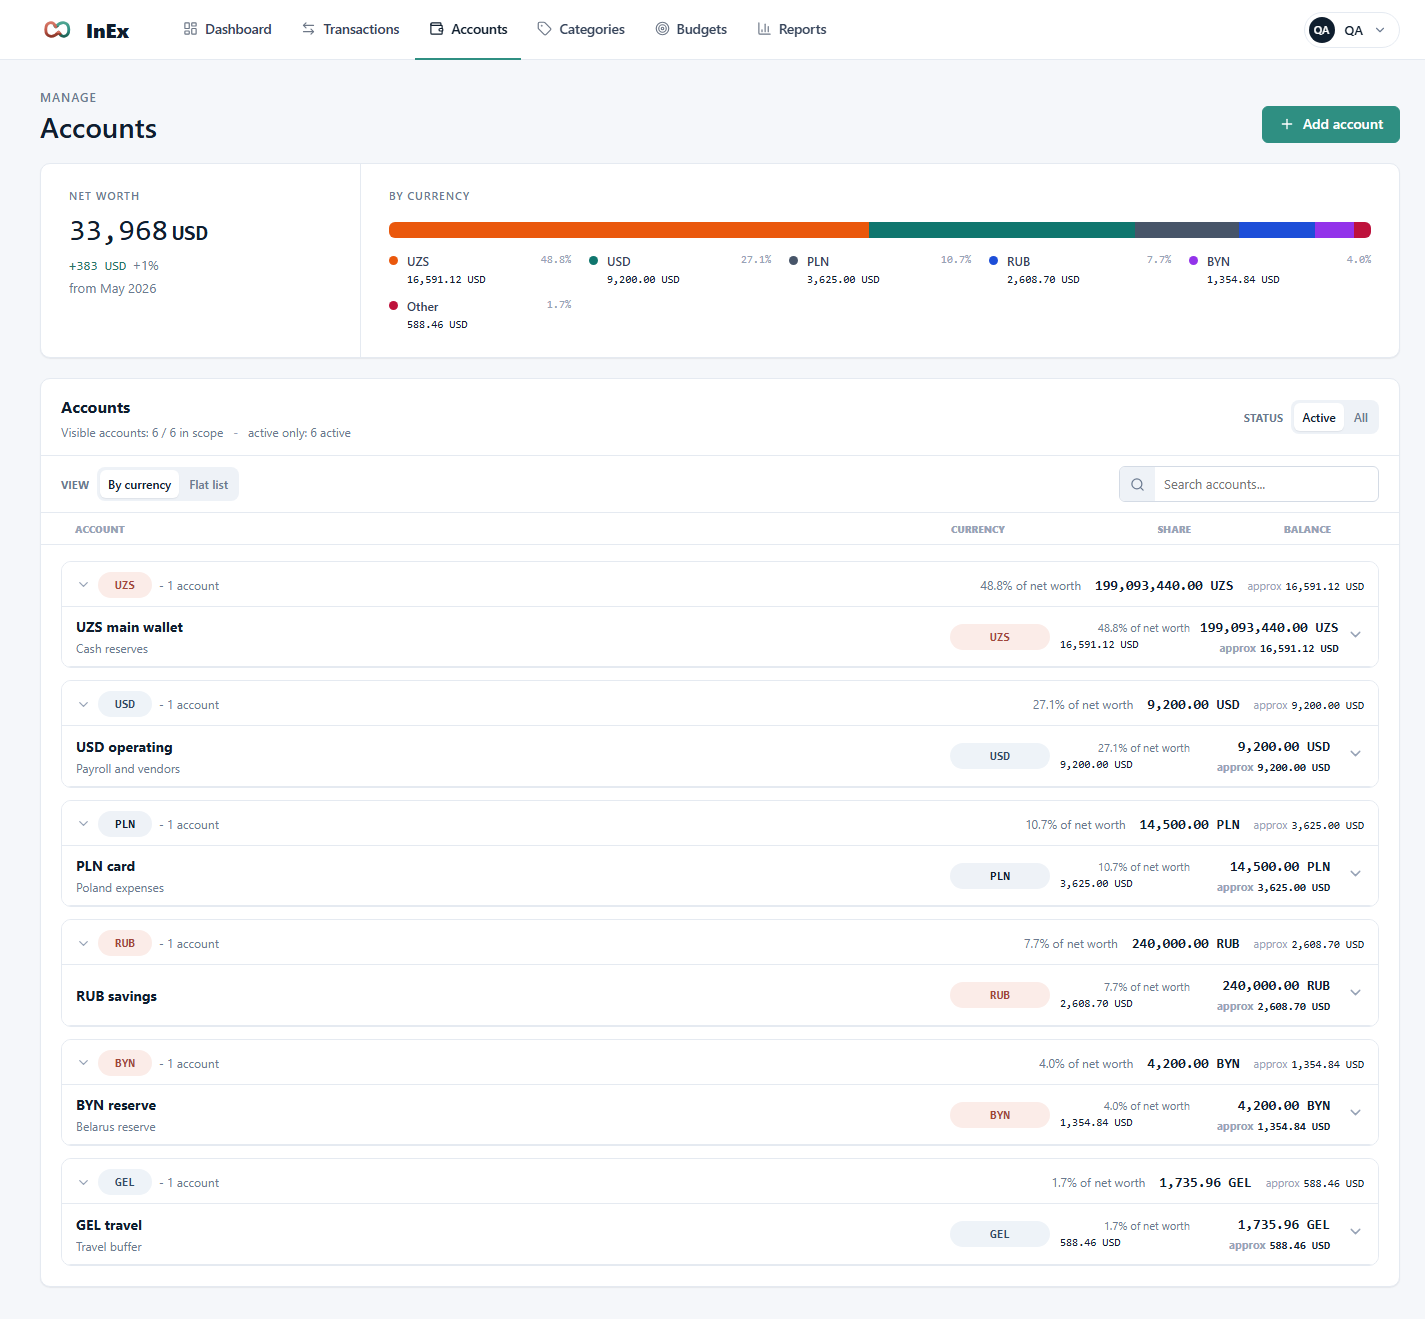
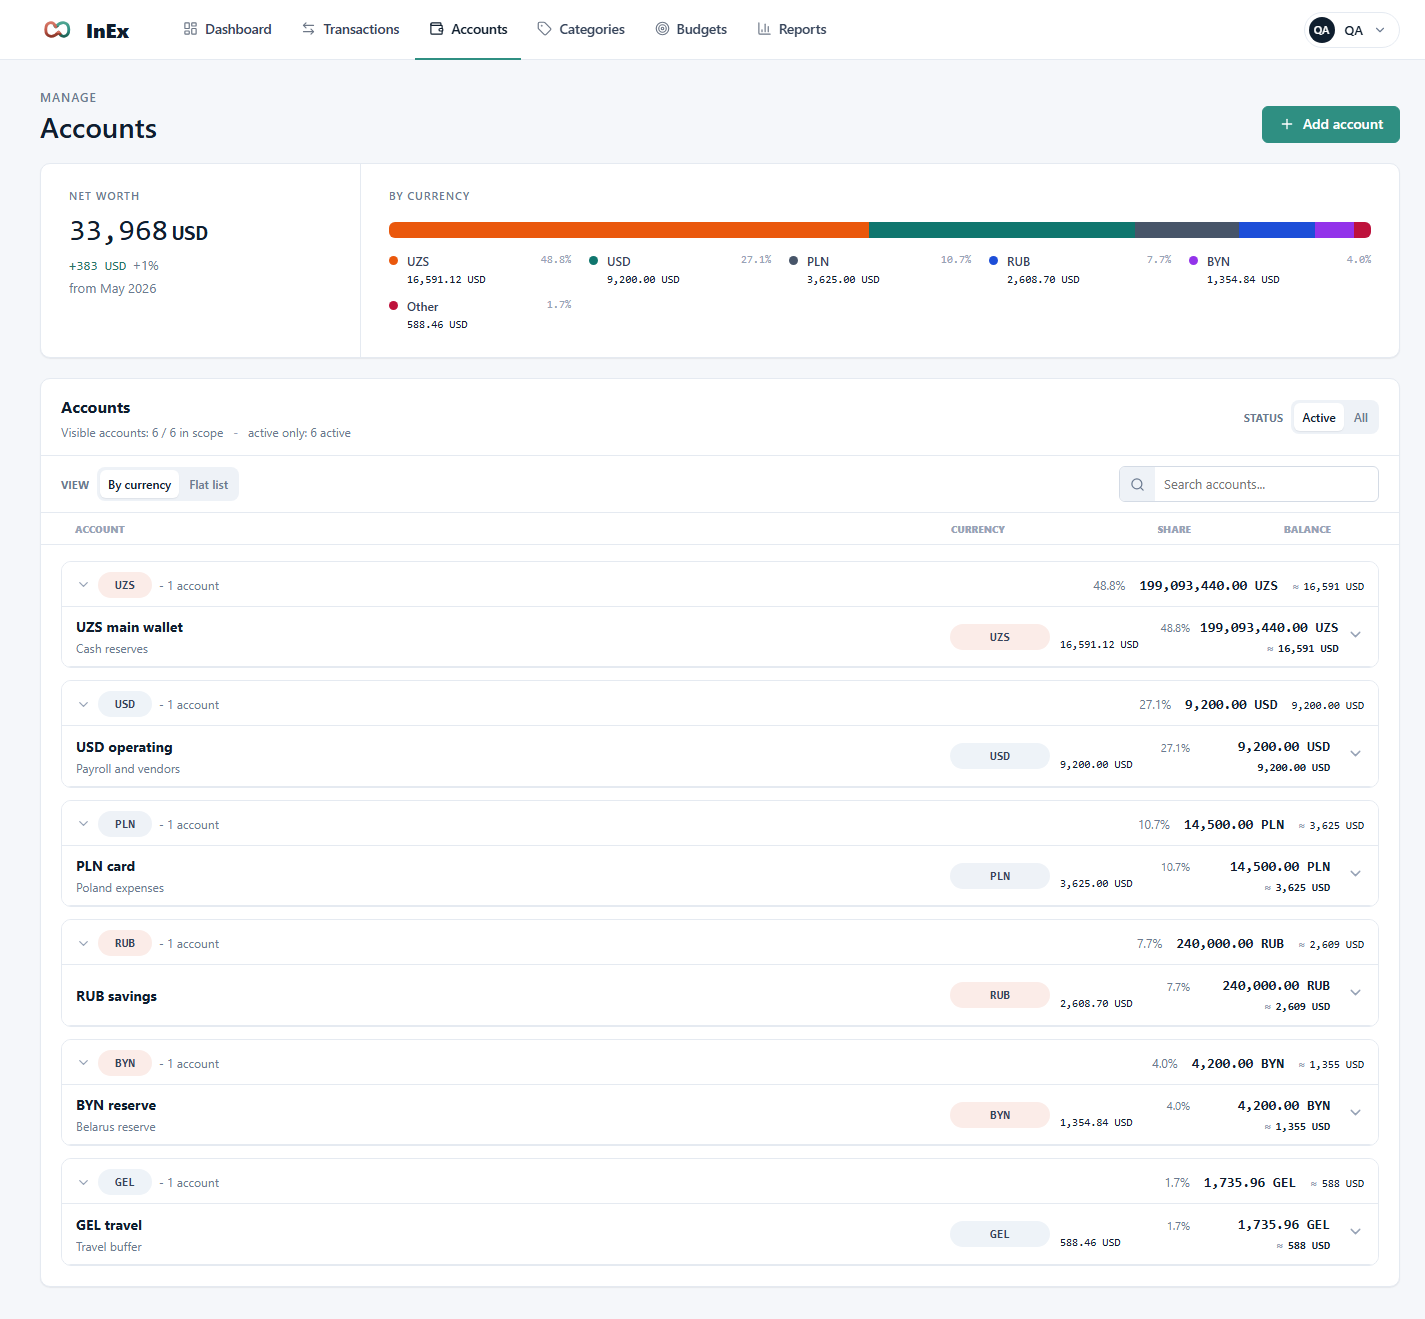
Normalize Accounts currency hierarchy

diff --git a/inex/ClientApp/src/pages/Accounts.tsx b/inex/ClientApp/src/pages/Accounts.tsx
@@ -21,6 +21,7 @@ import {
     SegmentedControl,
     Tag as InExTag,
 } from "../components/primitives";
+import type { NumProps } from "../components/primitives";
 import BasicPage from "../layouts/BasicPage";
 import { useAppSelector } from "../store/hooks";
 import apiClient from "../utils/apiClient";
@@ -295,7 +296,7 @@ const Accounts = () => {
 
     const renderBaseEquivalent = (
         value: number | null,
-        options: { approx?: boolean; className?: string } = {},
+        options: { approx?: boolean; className?: string; fractionDigits?: NumProps["fractionDigits"] } = {},
     ) => {
         if (value === null || !baseCurrency) {
             return (
@@ -314,6 +315,7 @@ const Accounts = () => {
                 )}
                 <Num
                     currency={baseCurrency}
+                    fractionDigits={options.fractionDigits}
                     kind={value < 0 ? "expense" : "neutral"}
                     value={toFixedMoney(value)}
                 />
@@ -466,8 +468,9 @@ const Accounts = () => {
                                         value={toFixedMoney(accountValue)}
                                     />
                                     {renderBaseEquivalent(account.baseValue, {
-                                        approx: true,
+                                        approx: account.currency !== baseCurrency,
                                         className: "accounts-row__balance-equivalent",
+                                        fractionDigits: account.currency !== baseCurrency ? 0 : undefined,
                                     })}
                                 </React.Fragment>
                             )}
@@ -589,8 +592,9 @@ const Accounts = () => {
                                             : t("accounts.hero.balanceUnavailable")}
                                     </span>
                                     {renderBaseEquivalent(group.baseSubtotal, {
-                                        approx: true,
+                                        approx: group.currency !== baseCurrency,
                                         className: "accounts-group__base",
+                                        fractionDigits: group.currency !== baseCurrency ? 0 : undefined,
                                     })}
                                 </span>
                             </button>

diff --git a/inex/ClientApp/src/pages/Accounts/accounts.css b/inex/ClientApp/src/pages/Accounts/accounts.css
@@ -440,13 +440,25 @@
     gap: 10px;
     grid-template-columns: minmax(220px, 1.8fr) 100px minmax(120px, 130px) minmax(120px, 130px) 24px;
     padding: 9px 14px;
+    position: relative;
     text-align: left;
     transition: background var(--dur-1) var(--ease-standard);
     width: 100%;
 }
 
-.accounts-row:hover {
+.accounts-row:hover,
+.accounts-row[aria-expanded="true"] {
     background: var(--bg-stripe);
+}
+
+.accounts-row[aria-expanded="true"]::before {
+    background: var(--income-500);
+    bottom: 0;
+    content: "";
+    left: 0;
+    position: absolute;
+    top: 0;
+    width: 3px;
 }
 
 .accounts-row.is-disabled {
@@ -575,6 +587,7 @@
 .accounts-currency-badge {
     align-items: center;
     border-radius: var(--radius-pill);
+    color: var(--fg-2);
     display: inline-flex;
     font-family: var(--font-num);
     font-size: 12px;
@@ -586,27 +599,22 @@
 
 .is-teal {
     background: var(--income-bg);
-    color: var(--income-fg);
 }
 
 .is-slate {
     background: var(--transfer-bg);
-    color: var(--transfer-fg);
 }
 
 .is-amber {
     background: var(--warn-bg);
-    color: var(--warn-fg);
 }
 
 .is-terracotta {
     background: var(--expense-bg);
-    color: var(--expense-fg);
 }
 
 .is-ink {
     background: var(--bg-muted);
-    color: var(--brand-ink);
 }
 
 @keyframes accounts-pulse {

diff --git a/inex/ClientApp/src/pages/Accounts/accounts-utils.test.ts b/inex/ClientApp/src/pages/Accounts/accounts-utils.test.ts
@@ -6,6 +6,7 @@ import {
   getAccountDisplayDescription,
   getBaseCurrency,
   getTotalBaseValue,
+  makeCurrencyDistribution,
   makeCurrencyGroups,
   sortAccountsByBaseValue,
   toFixedMoney,
@@ -151,7 +152,8 @@ describe("accounts value helpers", () => {
     const groups = makeCurrencyGroups(displayAccounts, 33968.12);
 
     expect(toFixedMoney(getTotalBaseValue(displayAccounts))).toBe(accountsVisualFixtureMeta.expectedNetWorth);
-    expect(groups.map((group) => group.currency)).toEqual(accountsVisualFixtureMeta.expectedDistributionOrder);
+    expect(makeCurrencyDistribution(groups, "Other").map((item) => item.label))
+      .toEqual(accountsVisualFixtureMeta.expectedDistributionOrder);
     expect(accountsVisualFixtureMeta.defaultCollapsedCurrencies).toEqual([]);
     expect(accountsVisualFixtureMeta.comparisonPeriodLabel).toBe("Mar 2026");
   });

diff --git a/inex/ClientApp/src/pages/Accounts.empty-focus.test.tsx b/inex/ClientApp/src/pages/Accounts.empty-focus.test.tsx
@@ -25,6 +25,7 @@ vi.mock("../utils/apiClient", () => ({
 vi.mock("react-i18next", async (importOriginal) => ({
     ...await importOriginal<typeof import("react-i18next")>(),
     useTranslation: () => ({
+        i18n: { language: "en" },
         t: (key: string, options?: Record<string, unknown>) => {
             const translations: Record<string, string> = {
                 "accounts.workspaceTitle": "Accounts",
